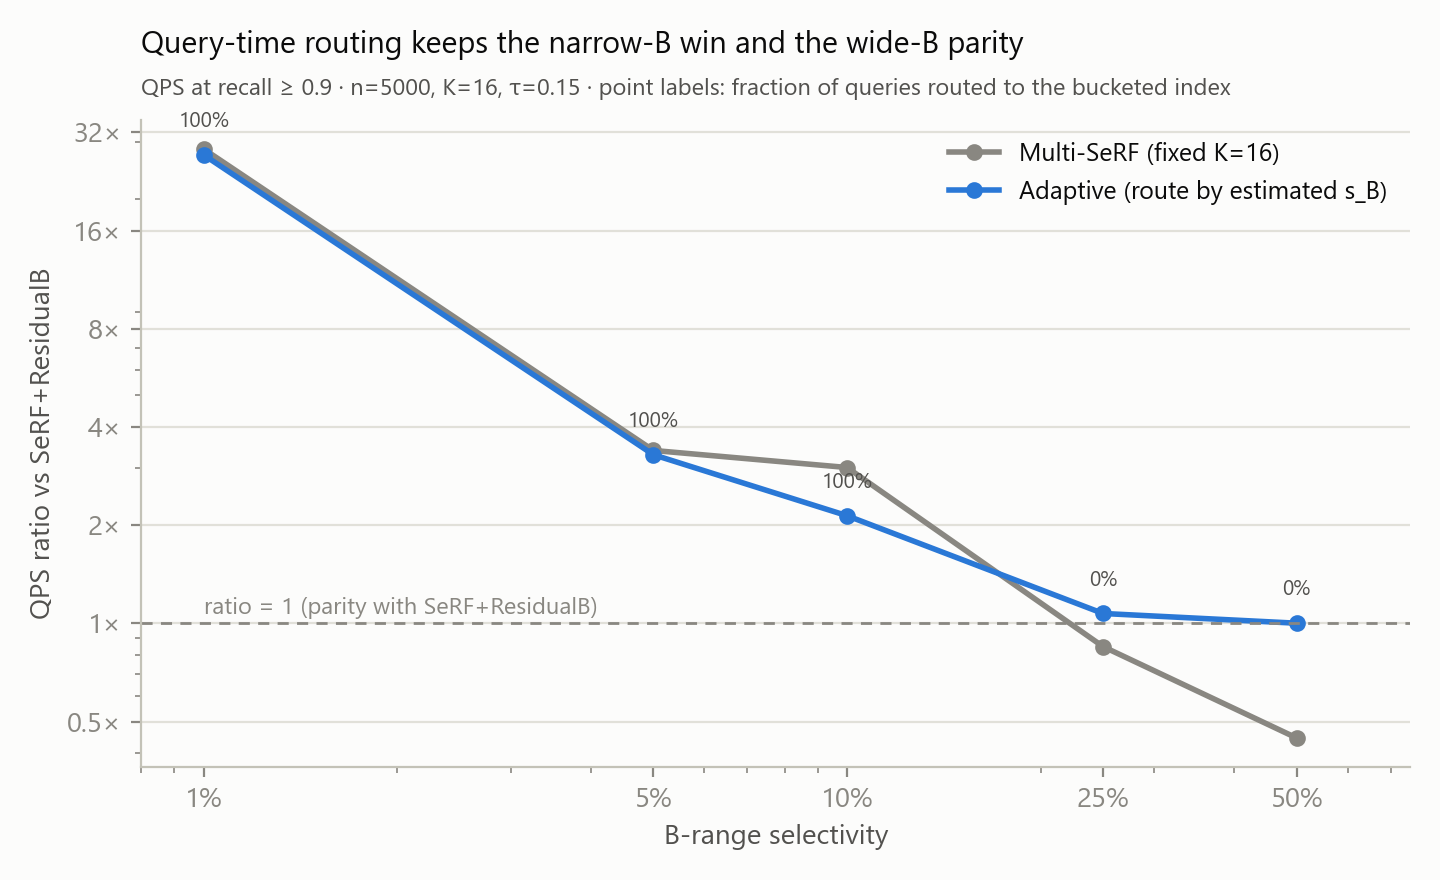
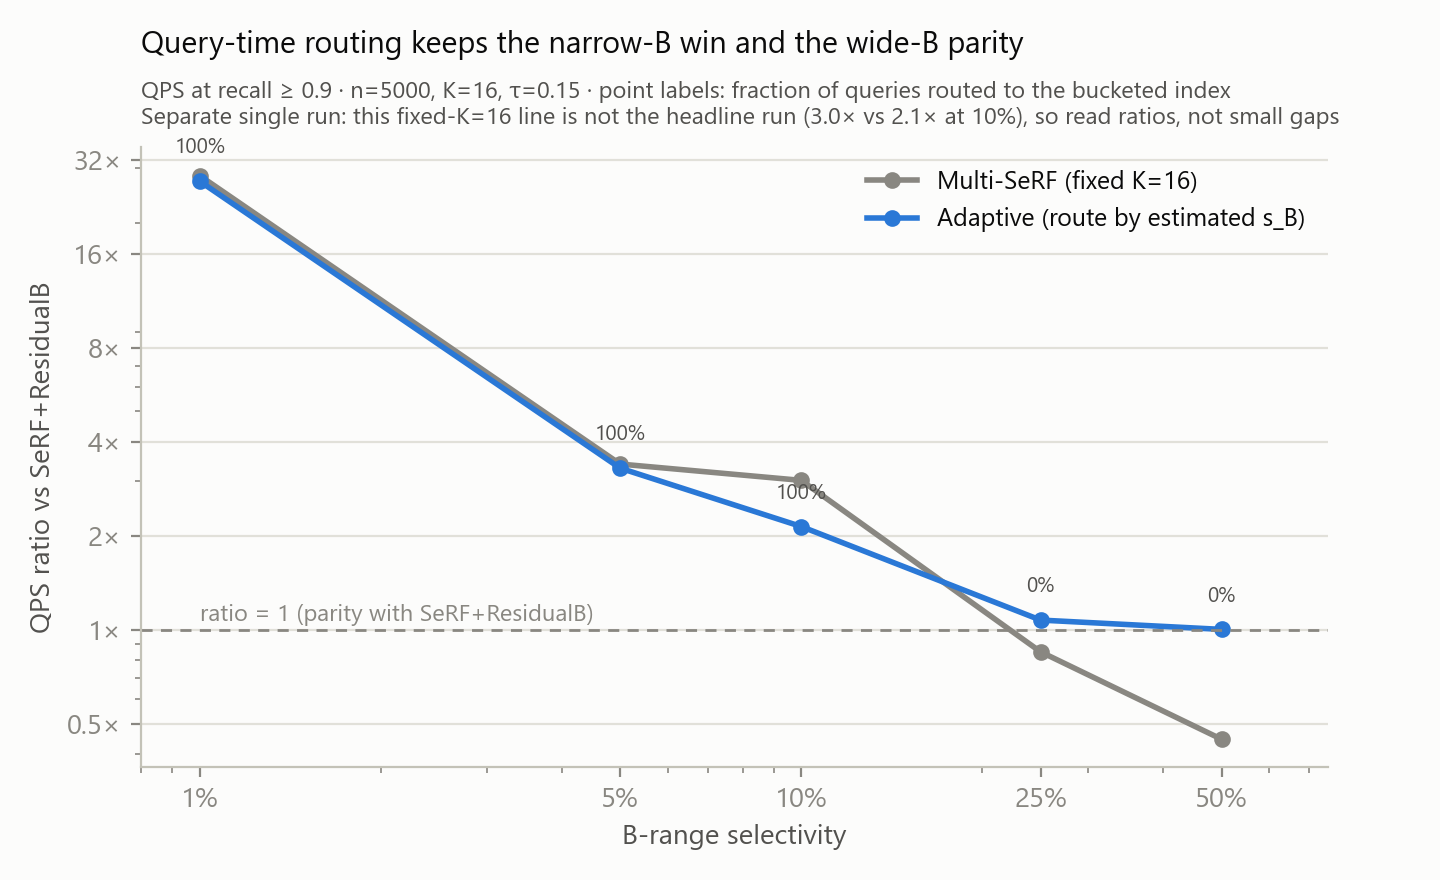
docs: say which run the adaptive chart shows and clean up figure labels
The adaptive chart plots a separate single run, so its fixed-K=16 line differs
from the headline chart (3.0x vs 2.1x at 10%); the subtitle now says so. The
recall-vs-L subtitle names the official siftsmall query set instead of "corpus
queries", its reference labels no longer sit on their own lines, the alpha
labels in the recall/QPS chart get a background so the curves stay readable,
and the schematic query window straddles two buckets rather than ending on a
bucket edge. Figures are redrawn from the recorded result JSON files.

diff --git a/PartB_MultiSeRF/make_figures.py b/PartB_MultiSeRF/make_figures.py
@@ -188,7 +188,9 @@ def fig_recall_qps():
                 continue
             ax.annotate(f"α={c['alpha']:g}", (c["qps"], c["recall"]),
                         xytext=(0, -14), textcoords="offset points",
-                        ha="center", color=MUTED, fontsize=7.5)
+                        ha="center", color=MUTED, fontsize=7.5,
+                        bbox=dict(boxstyle="round,pad=0.15", fc="white",
+                                  ec="none", alpha=0.85))
         # ring the reported point: the first α that clears the recall floor
         ax.plot(best["qps"], best["recall"], marker="o", markersize=11,
                 mfc="none", mec=color, mew=1.5)
@@ -219,7 +221,8 @@ def fig_mechanism():
 
     fig, axes = plt.subplots(1, 2, figsize=(9.6, 4.6), dpi=200)
     K = 8
-    b_lo, b_hi = 0.38, 0.50          # query B window (schematic)
+    b_lo, b_hi = 0.33, 0.46          # query B window (schematic): straddles
+                                     # two buckets instead of ending on an edge
     box = dict(x=0.10, y=0.12, w=0.84, h=0.74)
 
     def base(ax, title):
@@ -325,9 +328,11 @@ def fig_adaptive():
     ax.set_xlabel("B-range selectivity")
     ax.set_ylabel("QPS ratio vs SeRF+ResidualB")
     ax.set_title("Query-time routing keeps the narrow-B win and the wide-B parity",
-                 fontsize=11, color=INK, loc="left", pad=24)
+                 fontsize=11, color=INK, loc="left", pad=34)
     ax.text(0, 1.03, "QPS at recall ≥ 0.9 · n=5000, K=16, τ=0.15 · point labels: "
-                     "fraction of queries routed to the bucketed index",
+                     "fraction of queries routed to the bucketed index\n"
+                     "Separate single run: this fixed-K=16 line is not the headline "
+                     "run (3.0× vs 2.1× at 10%), so read ratios, not small gaps",
             transform=ax.transAxes, color=INK_2ND, fontsize=8.5, va="bottom")
     ax.legend(loc="upper right", frameon=False, fontsize=9)
     fig.tight_layout()

diff --git a/PartA_DiskANN/make_figures.py b/PartA_DiskANN/make_figures.py
@@ -84,7 +84,7 @@ def fig_recall_vs_l():
             continue                 # gaussian pynndescent refs only
         pynn = rows["pynndescent"]["recall@10"]
         ax.axhline(pynn, color=color, linewidth=1.0, linestyle=(0, (1, 2)))
-        ax.text(64, pynn + 0.004, f"pynndescent ({label}): {pynn:.3f}",
+        ax.text(64, pynn + 0.012, f"pynndescent ({label}): {pynn:.3f}",
                 color=color, fontsize=8)
     ax.axhline(0.95, color=MUTED, linewidth=1.0, linestyle=(0, (4, 3)))
     ax.text(330, 0.955, "proposal target 0.95", color=MUTED, fontsize=8.5,
@@ -101,8 +101,9 @@ def fig_recall_vs_l():
     ax.set_title("Recall misses the 0.95 bar on held-out Gaussian, and "
                  "clears it on real SIFT10K", fontsize=11, color=INK,
                  loc="left", pad=24)
-    ax.text(0, 1.03, "Gaussian: dim=128, nq=200 held-out · SIFT10K: corpus "
-                     "queries, nq=100 · pynndescent refs are Gaussian runs",
+    ax.text(0, 1.03, "Gaussian: dim=128, nq=200 held-out · SIFT10K: official "
+                     "siftsmall query set, nq=100 · pynndescent refs are "
+                     "Gaussian runs",
             transform=ax.transAxes, color=INK_2ND, fontsize=8.5, va="bottom")
     ax.legend(loc="lower right", frameon=False, fontsize=9)
     fig.tight_layout()
